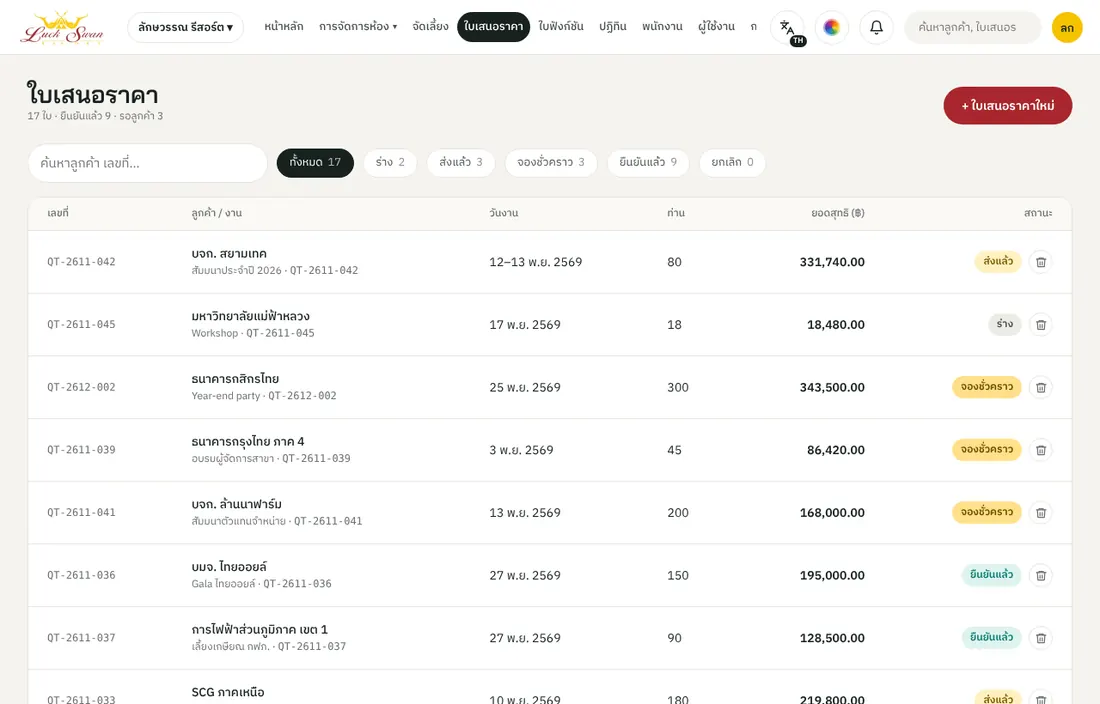
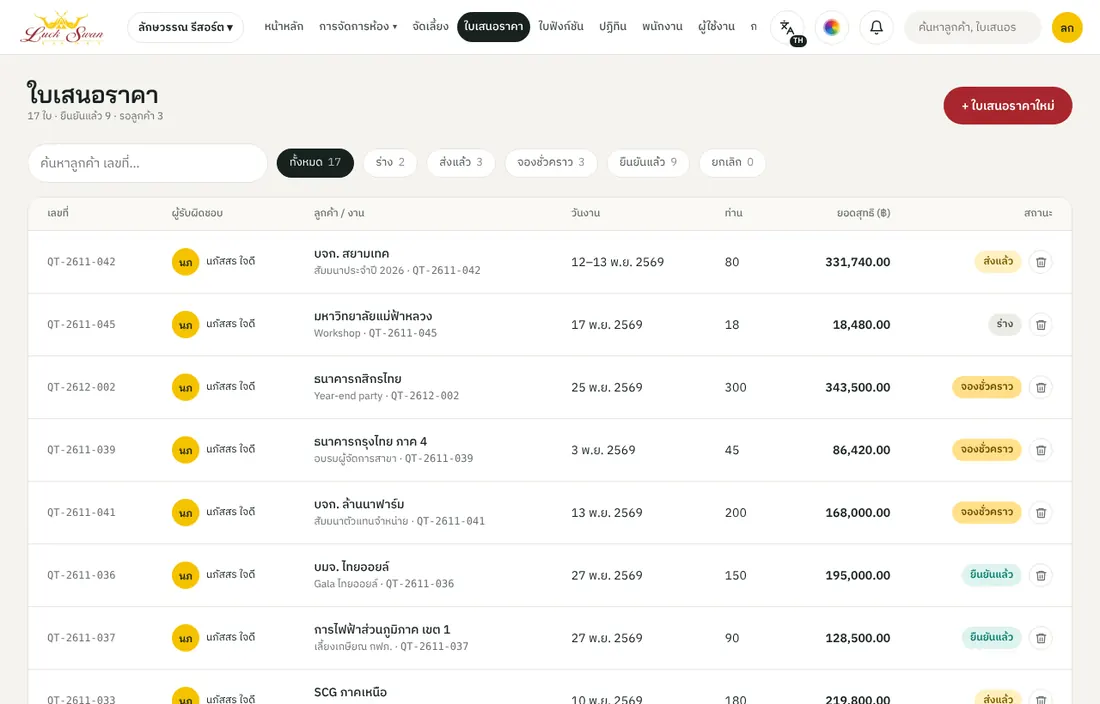
Manual 1.4 (Thai): floor-plan tools, function sheet versions and saving, and more
content.th.js, version 1.4 (5 พ.ย. 2569):
- ออกแบบผังงาน: the rows / tables panel, the room picker for several
  rooms, the text box, the rotate handle and 15/45/90/180° buttons, and a
  picture as background or as the plan.
- รายละเอียดฟังก์ชัน: สำหรับเซลล์ / สำหรับ Operation, บันทึก as PNG / JPG
  / PDF, department cards and the sheet as one list, ประเภทงาน from the
  tags.
- ใบเสนอราคา: the ผู้รับผิดชอบ column.
- รอบพนักงาน / เงื่อนไข: plans only for departments with rules.
- Browse-only roles (พนักงานขายย่อย) on meeting rooms, rooms and catering.
- Backup and admin recovery through GitHub Actions, and what to do when
  the free database quota runs out.
- The quick guides and the change log.

Screenshots (Thai): plan, plan-tools, plan-image, fn, fn-save, quotes and
staff-shifts. tools/shots.js takes the new ones.

English and Burmese are not updated yet.

Claude-Session: https://claude.ai/code/session_015bPeSMdisNsHViU4e5orFu

diff --git a/docs/manual/content.th.js b/docs/manual/content.th.js
@@ -14,7 +14,7 @@ window.MANUAL.th = {
     title: 'คู่มือการใช้งานระบบงานขาย',
     subtitle: 'ลักษวรรณ รีสอร์ท — ใบเสนอราคา ห้องประชุม ห้องพัก จัดเลี้ยง ใบฟังก์ชัน พนักงาน ตารางการทำงาน ใบลา และงานที่มอบหมาย',
     url: 'https://luckswan-sales.it-luckswan.workers.dev',
-    version: '1.3', updated: '29 ต.ค. 2569',
+    version: '1.4', updated: '5 พ.ย. 2569',
     intro: 'ระบบงานขายเป็นเว็บแอปที่ใช้ได้ทั้งคอมพิวเตอร์ iPad และมือถือ ทุกคนเห็นข้อมูลชุดเดียวกันแบบเรียลไทม์ เมนูที่แต่ละคนเห็นขึ้นกับบทบาทและสิทธิ์ที่ผู้ดูแลระบบกำหนดให้ คู่มือนี้อธิบายทุกหมวดตั้งแต่เข้าสู่ระบบจนถึงงานของแต่ละแผนก พร้อมรูปหน้าจอจริงประกอบทุกขั้นตอน'
   },
   groups: [
@@ -95,7 +95,7 @@ window.MANUAL.th = {
         'ปุ่มดินสอ ✏ มุมขวาล่างของการ์ดห้อง (ผู้มีสิทธิ์แก้ราคา): แก้รูปตัวอย่าง (อัปโหลดได้หลายรูป ลบ เลื่อนลำดับ รูปแรกเป็นหน้าปก) ราคาเต็มวัน/ครึ่งวัน จำนวนคนที่รองรับแต่ละรูปแบบ (ต่ำสุด–สูงสุด เช่น 150–300 คน) พื้นที่ งานเลี้ยงการันตีขั้นต่ำ คำอธิบาย และสิ่งที่มีในห้อง แล้วกด “บันทึก” — มีปุ่ม “คืนค่าเริ่มต้น”'
       ],
       shots: [{ img: 'meet', cap: 'รายการห้องประชุม พร้อมความจุและสถานะว่าง' }, { img: 'meet-sel', cap: 'เลือกห้องแล้ว: ผังที่นั่ง เงื่อนไข และอุปกรณ์ในห้อง' }, { img: 'meet-edit', cap: 'แก้ไขห้องประชุม: รูป ราคา และจำนวนคนที่รองรับ' }, { img: 'meet-zoom', cap: 'ขยายรูปห้องเต็มจอ' }],
-      tips: ['ถ้าจองห้องทับเวลากับงานอื่น ระบบจะเตือน และต้องให้ผู้ดูแลระบบอนุมัติก่อน', 'ห้องที่เกินความจุของรูปแบบที่เลือกจะขึ้นเตือน', 'ราคาห้องที่แก้ใหม่ ใช้กับรายการที่เพิ่มเข้าใบเสนอราคาหลังจากนี้ ใบเดิมไม่เปลี่ยน']
+      tips: ['บทบาทที่ไม่มีสิทธิ์ “สร้างและส่งใบเสนอราคา” (เช่น พนักงานขายย่อย) ดูห้อง รูป ความจุ และราคาได้ แต่ไม่เห็นแถบเลือกใบเสนอราคา จองชั่วคราว และปุ่มเพิ่ม/อัปเดตในใบเสนอ', 'ถ้าจองห้องทับเวลากับงานอื่น ระบบจะเตือน และต้องให้ผู้ดูแลระบบอนุมัติก่อน', 'ห้องที่เกินความจุของรูปแบบที่เลือกจะขึ้นเตือน', 'ราคาห้องที่แก้ใหม่ ใช้กับรายการที่เพิ่มเข้าใบเสนอราคาหลังจากนี้ ใบเดิมไม่เปลี่ยน']
     },
     {
       id: 'rooms', group: 'sell', icon: 'bed', title: 'ห้องพักและการตั้งราคาห้อง', who: 'ฝ่ายขาย · ผู้ดูแลระบบ (ตั้งราคา)',
@@ -114,7 +114,7 @@ window.MANUAL.th = {
         'ผู้มีสิทธิ์แก้ราคา: กด “ตั้งราคาห้องพัก” เพื่อแก้ช่วงราคา (ฤดูกาล) จำนวนห้อง และราคาแต่ละประเภท With ABF / Room only — ส่วน “บูติก” แก้ราคาห้อง 3 แบบ และราคาอาหาร 3 ระดับ แล้วกดบันทึก'
       ],
       shots: [{ img: 'rooms', cap: 'จัด Room block รีสอร์ท: เลือกประเภท จำนวน และแบบเตียง' }, { img: 'rooms-bq', cap: 'ห้องพักบูติก และอาหารซื้อเพิ่ม' }, { img: 'roomrates', cap: 'ตั้งราคาห้องพักตามช่วงฤดูกาล' }, { img: 'roomrates-bq', cap: 'ตั้งราคาบูติก: ห้องพักและอาหาร' }],
-      tips: ['ราคาห้องเป็นราคาต่อห้องต่อคืน สำหรับ 2 ท่าน (Triple 3 ท่าน) เป็นราคา Net รวม Service และ VAT แล้ว (คิดแบบเดียวกับใบเสนอราคา)', 'ใบเสนอราคาหนึ่งใบใช้ห้องพักได้ทีละสถานที่ — กดอัปเดตใบเสนอจากบูติก จะแทนห้องรีสอร์ทเดิมในใบ (และกลับกัน)', 'บูติกไม่ใช้ห้องฟรีทุก 20 ห้อง และ Late check-out ของรีสอร์ท']
+      tips: ['บทบาทที่ไม่มีสิทธิ์ “สร้างและส่งใบเสนอราคา” (เช่น พนักงานขายย่อย) ดูห้อง รูป ความจุ และราคาได้ แต่ไม่เห็นแถบเลือกใบเสนอราคา จองชั่วคราว และปุ่มเพิ่ม/อัปเดตในใบเสนอ', 'ราคาห้องเป็นราคาต่อห้องต่อคืน สำหรับ 2 ท่าน (Triple 3 ท่าน) เป็นราคา Net รวม Service และ VAT แล้ว (คิดแบบเดียวกับใบเสนอราคา)', 'ใบเสนอราคาหนึ่งใบใช้ห้องพักได้ทีละสถานที่ — กดอัปเดตใบเสนอจากบูติก จะแทนห้องรีสอร์ทเดิมในใบ (และกลับกัน)', 'บูติกไม่ใช้ห้องฟรีทุก 20 ห้อง และ Late check-out ของรีสอร์ท']
     },
     {
       id: 'food', group: 'sell', icon: 'food', title: 'จัดเลี้ยงและเมนูอาหาร', who: 'ฝ่ายขาย · ผู้ดูแลระบบ (แก้เมนู)',
@@ -128,13 +128,13 @@ window.MANUAL.th = {
         'จัดการประเภทจัดเลี้ยง (ผู้มีสิทธิ์แก้ราคา): ปุ่ม ＋ และ ✏ ข้างหัวข้อ “ประเภท” — ＋ เพิ่มประเภทใหม่ · ✏ แก้ชื่อหรือลบ 🗑 (แต่ละแถวบอกจำนวนเมนู) แล้วกด “บันทึก”'
       ],
       shots: [{ img: 'food', cap: 'รายการเมนูจัดเลี้ยงและตัวกรอง' }, { img: 'food-cats', cap: 'จัดการประเภทจัดเลี้ยง: เพิ่ม แก้ชื่อ ลบ' }, { img: 'food-edit', cap: 'แก้ไขแพ็กเกจ: ราคา ขั้นต่ำ รูป และรายการอาหาร' }],
-      tips: ['ราคาที่แก้ใหม่ใช้กับใบเสนอราคาที่ทำหลังจากนี้ ใบที่ส่งไปแล้วไม่เปลี่ยน', 'ประเภทที่ยังมีเมนูอยู่ลบไม่ได้ (ย้ายเมนูไปประเภทอื่นก่อน) · “ทั้งหมด” ลบไม่ได้ · “แพ็กเกจสัมมนา” แก้ชื่อได้แต่ลบไม่ได้ · ตั้งชื่อซ้ำไม่ได้']
+      tips: ['บทบาทที่ไม่มีสิทธิ์ “สร้างและส่งใบเสนอราคา” (เช่น พนักงานขายย่อย) ดูเมนูและราคาได้ แต่ไม่เห็นแถบเลือกใบเสนอราคา ปุ่ม “+ เพิ่มในใบเสนอ” และแถบใบเสนอด้านล่าง', 'ราคาที่แก้ใหม่ใช้กับใบเสนอราคาที่ทำหลังจากนี้ ใบที่ส่งไปแล้วไม่เปลี่ยน', 'ประเภทที่ยังมีเมนูอยู่ลบไม่ได้ (ย้ายเมนูไปประเภทอื่นก่อน) · “ทั้งหมด” ลบไม่ได้ · “แพ็กเกจสัมมนา” แก้ชื่อได้แต่ลบไม่ได้ · ตั้งชื่อซ้ำไม่ได้']
     },
     {
       id: 'quotes', group: 'sell', icon: 'doc', title: 'ใบเสนอราคา: รายการและการแก้ไข', who: 'ฝ่ายขาย · ผู้จัดการฝ่ายขาย · บัญชี (ดู)',
       intro: 'เมนู ใบเสนอราคา รวมทุกใบ ค้นหาและกรองตามสถานะ: ร่าง · ส่งแล้ว · จองชั่วคราว · ยืนยันแล้ว · ยกเลิก',
       steps: [
-        'ค้นหาด้วยชื่อลูกค้าหรือเลขที่ใบ แล้วกดแถวเพื่อเปิด',
+        'ค้นหาด้วยชื่อลูกค้าหรือเลขที่ใบ แล้วกดแถวเพื่อเปิด — คอลัมน์ “ผู้รับผิดชอบ” ต่อจากเลขที่ บอกชื่อผู้ใช้ที่สร้างใบนั้น (บนมือถือแสดงใต้ชื่องาน)',
         'ในหน้าใบเสนอราคา รายการแบ่งเป็น ห้องประชุม · อาหารและเครื่องดื่ม · ห้องพัก — แก้จำนวนหรือราคาในช่องได้ทันที กด “+ เพิ่มรายการ…” เพื่อเพิ่ม',
         'สลับมุมมอง “ตาราง / ไทม์ไลน์” มุมขวาบน เพื่อดูกำหนดการรายวัน',
         'กล่องสรุปยอดด้านขวา: ราคาในใบเป็นราคา Net (รวม Service Charge และ VAT แล้ว) — ยอดรวมก่อนส่วนลด · ส่วนลด · ราคาก่อน Service Charge และ VAT · ค่าบริการ 10% · รวมก่อน VAT · VAT 7% · ยอดสุทธิ และเฉลี่ยต่อท่าน',
@@ -189,25 +189,31 @@ window.MANUAL.th = {
         'ส่วนหัวแสดง วันงาน จำนวนยืนยัน (+5% สำรอง) ห้อง ผู้ติดต่อ และฝ่ายขาย',
         'กรอบ “ประเภทผู้เข้าร่วมงาน และ ลักษณะงาน”: กดที่หัวกิ่งเพื่อกาง แล้วกดเลือกได้หลายข้อ เช่น เด็กนักเรียนมัธยม · อาจารย์ / Team building · คลาสสอน — หัวกิ่งแสดงสิ่งที่เลือก · ✏ แก้ไข / เพิ่ม / ลบตัวเลือกภายในกิ่ง (ผู้ดูแลระบบ ผู้จัดการฝ่ายขาย พนักงานขาย) บทบาทอื่นเห็นอย่างเดียว',
         'กำหนดการรายวัน: เวลา รายละเอียด สถานที่ และแผนกที่รับผิดชอบ (สลับ “วันที่ 1 / วันที่ 2”) — นำเข้าจากไฟล์ Excel ได้',
-        'การ์ดแต่ละแผนก (ครัว จัดเลี้ยง ช่าง ส่วนหน้า แม่บ้าน บัญชี) แสดงรายการงานและสถานะ “รับทราบแล้ว / รอรับทราบ” กด “แก้ไข” เพื่อเพิ่มงานของแผนก',
+        'การ์ดแต่ละแผนก (ครัว จัดเลี้ยง ช่าง ส่วนหน้า แม่บ้าน บัญชี) แสดงรายการงานและสถานะ “รับทราบแล้ว / รอรับทราบ” กด “แก้ไข” เพื่อเพิ่มงานของแผนก — รายการในการ์ดกับช่องของแผนกนั้นใน “รายละเอียดฟังก์ชัน” เป็นข้อมูลชุดเดียวกัน แก้ที่ไหนก็ขึ้นทั้งสองที่',
         'ทุกครั้งที่แก้หลังส่งแล้ว ระบบนับ “แก้ไขครั้งที่ …” และส่งให้ผู้ดูแลระบบอนุมัติก่อนส่งแผนก',
         'ปุ่มด้านบน: รายละเอียดฟังก์ชัน · ใบสรุปสำหรับฝ่ายขาย · ออกแบบผังงาน (ผู้ดูแลระบบ ฝ่ายขาย แผนก F&B และแผนกจัดเลี้ยง) · แก้ไขปรับปรุง (ผู้ดูแลระบบ) · พิมพ์ / PDF'
       ],
       shots: [{ img: 'beo', cap: 'ใบฟังก์ชัน: กำหนดการรายวันและการ์ดแต่ละแผนก' }, { img: 'beo-tags', cap: 'ประเภทผู้เข้าร่วมงาน และ ลักษณะงาน' }, { img: 'beo-list', cap: 'รายการใบฟังก์ชันพร้อมสถานะการรับทราบ' }],
-      tips: ['ใบเสนอราคาที่ยังไม่อนุมัติ ออกใบฟังก์ชันไม่ได้ ระบบจะแจ้ง “ต้องให้ผู้ดูแลระบบอนุมัติใบเสนอราคาก่อน” · ใบฟังก์ชันที่มีอยู่แล้วแก้ไขได้ตามปกติ', 'หัวหน้าแผนกควรกด “รับทราบ” ทุกครั้งที่มีใบใหม่หรือมีการแก้ไข', 'การเลือกประเภทผู้เข้าร่วมงานและลักษณะงานไม่ทำให้ใบต้องขออนุมัติการแก้ไขใหม่ · รายการตัวเลือกใช้ร่วมกันทุกใบ']
+      tips: ['ใบเสนอราคาที่ยังไม่อนุมัติ ออกใบฟังก์ชันไม่ได้ ระบบจะแจ้ง “ต้องให้ผู้ดูแลระบบอนุมัติใบเสนอราคาก่อน” · ใบฟังก์ชันที่มีอยู่แล้วแก้ไขได้ตามปกติ', 'หัวหน้าแผนกควรกด “รับทราบ” ทุกครั้งที่มีใบใหม่หรือมีการแก้ไข', 'การเลือกประเภทผู้เข้าร่วมงานและลักษณะงานไม่ทำให้ใบต้องขออนุมัติการแก้ไขใหม่ · รายการตัวเลือกใช้ร่วมกันทุกใบ · สิ่งที่เลือกไปแสดงในช่อง “ประเภทงาน” ของรายละเอียดฟังก์ชัน']
     },
     {
       id: 'plan', group: 'event', icon: 'grid', title: 'ออกแบบผังงานและแก้ไขปรับปรุงห้อง', who: 'ผู้ดูแลระบบ · ผู้จัดการฝ่ายขาย · พนักงานขาย · แผนก F&B · แผนกจัดเลี้ยง (หัวหน้าและพนักงาน)',
-      intro: 'วาดผังการจัดห้องจากใบฟังก์ชัน พิมพ์แนบให้ทีมจัดห้อง',
+      intro: 'วาดผังการจัดห้องจากใบฟังก์ชัน พิมพ์แนบให้ทีมจัดห้อง ใช้ได้ทั้งคอมพิวเตอร์ iPad และมือถือ',
       steps: [
-        'จากใบฟังก์ชัน กด “ออกแบบผังงาน” เลือกวัน (วันที่ 1 / วันที่ 2)',
-        'เลือกเทมเพลตด้านซ้าย (ตามใบเสนอราคา · Theatre · ห้องประชุม · โต๊ะกลม ฯลฯ) ระบบจัดโต๊ะเก้าอี้ให้อัตโนมัติ',
-        'กด “+ โต๊ะกลม / + โต๊ะยาว / + แถวเก้าอี้ / + เวที …” เพื่อเพิ่มของ แล้วลากวางบนผัง',
-        'แตะของเพื่อเลือก ย้าย หมุน หรือลบ กด “ย้อนกลับ” เมื่อทำผิด',
-        '“แก้ไขปรับปรุง”: ตั้งขนาดห้อง (เมตร) และของที่ห้ามย้าย เช่น เวที ประตู เสา ปลั๊ก — ใช้กับทุกงานของห้องนั้น'
+        'จากใบฟังก์ชัน กด “ออกแบบผังงาน” เลือกวัน (วันที่ 1 / วันที่ 2) — ถ้างานใช้ห้องประชุมมากกว่า 1 ห้อง จะมีหน้าให้เลือกห้องก่อน แต่ละห้องมีผังของตัวเอง',
+        'แผง “จำนวนโต๊ะ / แถว” ด้านซ้าย: ระบบดึงจำนวนผู้เข้าร่วมจากใบเสนอราคา แล้วคำนวณจำนวนแถวและโต๊ะต่อแถวให้ (Classroom · Theatre = เก้าอี้ต่อแถว · Banquet) พร้อมที่นั่งต่อโต๊ะและทางเดินกลาง',
+        'แก้เลข “จำนวนแถว” “โต๊ะต่อแถว” หรือ “ผู้เข้าร่วม” ได้เอง ด้านล่างสรุปทันที เช่น “3 แถว × 6 โต๊ะ = 18 โต๊ะ · 180 ที่” และเตือนสีแดงถ้าที่นั่งไม่พอหรือแถวมากเกินห้อง — กด “จัดผังตามนี้” เพื่อจัดโต๊ะใหม่ทั้งผัง หรือ “คำนวณใหม่” ให้ระบบคิดเลขอีกครั้ง',
+        'หรือเลือกเทมเพลตด้านซ้าย (ตามใบเสนอราคา · Theatre · ห้องประชุม · โต๊ะกลม ฯลฯ) ระบบจัดโต๊ะเก้าอี้ให้อัตโนมัติ',
+        'กด “+ โต๊ะกลม / + โต๊ะยาว / + แถวเก้าอี้ / + เวที / + กล่องข้อความ …” เพื่อเพิ่มของ แล้วลากวางบนผัง — กล่องข้อความ: กดเพิ่มแล้วพิมพ์ข้อความในช่อง “ข้อความ” ด้านซ้ายได้ทันที เช่น “ทางเข้า VIP”',
+        'แตะของเพื่อเลือก ย้าย คัดลอก หรือลบ กด “ย้อนกลับ” เมื่อทำผิด',
+        'หมุน: ลากวงกลมสีแดงเหนือกรอบของที่เลือก (ทีละ 5°) หรือกดปุ่ม ⟳ 15° · 45° · 90° · 180° ในแผง “ที่เลือกอยู่” (หมุนตามเข็มนาฬิกา แสดงมุมปัจจุบัน)',
+        'รูปผัง (.jpg .png): กด + ที่หัวข้อ “เทมเพลต” › อัปโหลดรูป — รูปขึ้นเป็นพื้นหลังเข้มเต็ม ปรับความเข้มให้จางเพื่อวางโต๊ะทับได้',
+        'ใช้รูปเป็นผังงาน: ในแผง “รูปพื้นหลัง” กด “ใช้รูปนี้เป็นผังงาน” — ใบฟังก์ชันและการพิมพ์ใช้รูปนี้แทน พิมพ์จำนวนที่นั่งเอง · “กลับไปใช้ผังที่วาด” นำโต๊ะเดิมกลับมาครบ · “ลบรูป” เอารูปออก',
+        '“ดาวน์โหลด PNG” บันทึกผังเป็นรูปภาพ',
+        '“แก้ไขปรับปรุง” (ผู้ดูแลระบบ): ตั้งขนาดห้อง (เมตร) และของที่ห้ามย้าย เช่น เวที ประตู เสา กล่องข้อความ — ใช้กับทุกงานของห้องนั้น'
       ],
-      shots: [{ img: 'plan', cap: 'ออกแบบผังงาน: เทมเพลต เพิ่มของ และผังห้อง' }, { img: 'plansetup', cap: 'แก้ไขปรับปรุง: ขนาดห้องและของที่ห้ามย้าย' }],
-      tips: ['ผังพิมพ์เป็น PDF แนบกับใบฟังก์ชันได้', 'ฝ่ายขายดูจากบทบาท ส่วน F&B และจัดเลี้ยงดูจากช่อง “แผนก” ในบัญชีผู้ใช้: ครัว / F&B / อาหารและเครื่องดื่ม / จัดเลี้ยง / Banquet — คนอื่นเห็นภาพผังย่อในใบฟังก์ชันได้ แต่เปิดหน้าออกแบบไม่ได้', '“แก้ไขปรับปรุง” ใช้ได้เฉพาะผู้ดูแลระบบ']
+      shots: [{ img: 'plan', cap: 'ออกแบบผังงาน: แผงจำนวนโต๊ะ / แถว เทมเพลต และผังห้อง' }, { img: 'plan-tools', cap: 'ของที่เลือก: ที่จับหมุน ปุ่มหมุน 15° · 45° · 90° · 180° และกล่องข้อความ' }, { img: 'plan-image', cap: 'ใช้รูปผังที่อัปโหลดเป็นผังงาน และพิมพ์จำนวนที่นั่งเอง' }, { img: 'plansetup', cap: 'แก้ไขปรับปรุง: ขนาดห้องและของที่ห้ามย้าย' }],
+      tips: ['“จัดผังตามนี้” จัดโต๊ะใหม่ทั้งผัง (ของที่ห้ามย้ายอยู่ที่เดิม) ถ้าห้องรับไม่ไหวระบบบอกจำนวนโต๊ะที่วางไม่ลง · กดย้อนกลับได้', 'ระบบจำตัวเลขแถว/โต๊ะที่ใช้ล่าสุดไว้กับผังนั้น', 'กล่องข้อความไม่กินพื้นที่วางโต๊ะเวลาจัดผังอัตโนมัติ', 'ผังพิมพ์เป็น PDF แนบกับใบฟังก์ชันได้', 'ฝ่ายขายดูจากบทบาท ส่วน F&B และจัดเลี้ยงดูจากช่อง “แผนก” ในบัญชีผู้ใช้: ครัว / F&B / อาหารและเครื่องดื่ม / จัดเลี้ยง / Banquet — คนอื่นเห็นภาพผังย่อในใบฟังก์ชันได้ แต่เปิดหน้าออกแบบไม่ได้', '“แก้ไขปรับปรุง” ใช้ได้เฉพาะผู้ดูแลระบบ']
     },
     {
       id: 'fnforms', group: 'event', icon: 'print', title: 'รายละเอียดฟังก์ชันและใบสรุปสำหรับฝ่ายขาย', who: 'ผู้ดูแลระบบ · ผู้จัดการฝ่ายขาย · พนักงานขาย (แก้ไข) · บัญชี · หัวหน้าแผนก (ดู)',
@@ -215,11 +221,14 @@ window.MANUAL.th = {
       steps: [
         'กด “รายละเอียดฟังก์ชัน” — สลับ “ตัวอย่างพิมพ์ / แก้ไขข้อมูล” ใส่ Function No. (ระบบออกเลขอัตโนมัติหรือกรอกเอง) — แท็บแก้ไขข้อมูล ปุ่ม “+ เพิ่มรายละเอียด” และการออกเลข ใช้ได้เฉพาะผู้ดูแลระบบ ผู้จัดการฝ่ายขาย และพนักงานขาย',
         'ส่วน “แผนกบัญชี / การเงิน” (ยอดรวม รายละเอียดค่าใช้จ่าย ที่อยู่ออกบิล) เห็นเฉพาะผู้ดูแลระบบ ผู้จัดการฝ่ายขาย พนักงานขาย และบัญชี — บทบาทอื่นเห็นเฉพาะแผนกต้อนรับเต็มความกว้าง',
+        'ปุ่ม “สำหรับเซลล์ / สำหรับ Operation” (ผู้ดูแลระบบ ผู้จัดการฝ่ายขาย พนักงานขาย บัญชี): สำหรับเซลล์ = ใบเต็มมีส่วนการเงิน · สำหรับ Operation = ฉบับที่ทีมหน้างานเห็น ไม่มีส่วนการเงิน — การพิมพ์และการบันทึกไฟล์ใช้ฉบับที่เลือกอยู่',
+        'ช่อง “รูปแบบการจัดห้อง” · ครัว · แม่บ้าน · ช่างเครื่องเสียง · ฟรอนต์ ดึงจากการ์ดแผนกในใบฟังก์ชัน — พิมพ์แก้ในแท็บแก้ไขข้อมูลแล้วการ์ดเปลี่ยนตาม และแก้ที่การ์ดแล้วใบเปลี่ยนตาม · ช่อง “ประเภทงาน” มาจากประเภทผู้เข้าร่วมงานและลักษณะงานที่เลือก',
         'กด “ใบสรุปสำหรับฝ่ายขาย” — สรุปรายรับจากฟังก์ชัน ค่าอาหาร อาหารว่าง ห้องพัก และรายละเอียดใบกำกับภาษี',
-        'ตรวจแล้วกด “พิมพ์ / PDF”'
+        'ตรวจแล้วกด “พิมพ์ / PDF”',
+        'กด “บันทึก” (ต่อจากพิมพ์ / PDF) เลือก รูปภาพ PNG (คมชัด) · รูปภาพ JPG (ไฟล์เล็ก ส่งทาง LINE) · PDF (กระดาษ A4) — ไฟล์บันทึกลงเครื่อง ชื่อไฟล์บอกเลขใบและฉบับ เช่น function-FS-2610-003-operation.pdf'
       ],
-      shots: [{ img: 'fn', cap: 'รายละเอียดฟังก์ชัน (แบบฟอร์มพิมพ์)' }, { img: 'ss', cap: 'ใบสรุปรายละเอียดงานฟังก์ชันสำหรับฝ่ายขาย' }],
-      tips: ['แบบฟอร์มพิมพ์เป็นภาษาไทยเสมอ']
+      shots: [{ img: 'fn', cap: 'รายละเอียดฟังก์ชัน: ปุ่มสำหรับเซลล์ / สำหรับ Operation และบันทึก' }, { img: 'fn-save', cap: 'บันทึกเป็นไฟล์ PNG · JPG · PDF' }, { img: 'ss', cap: 'ใบสรุปรายละเอียดงานฟังก์ชันสำหรับฝ่ายขาย' }],
+      tips: ['แบบฟอร์มพิมพ์เป็นภาษาไทยเสมอ', 'ถ้ามีการแก้ไขที่ยังไม่บันทึก ต้องกด “บันทึกแก้ไขข้อมูล” ก่อนพิมพ์หรือบันทึกไฟล์', 'บน iPad / iPhone กดบันทึกแล้วเลือก “บันทึกไปยังไฟล์” หรือแชร์ต่อได้']
     },
     {
       id: 'cal', group: 'event', icon: 'cal', title: 'ปฏิทินการจอง', who: 'ฝ่ายขาย · ผู้จัดการ · หัวหน้าแผนก · บัญชี',
@@ -238,7 +247,8 @@ window.MANUAL.th = {
       intro: 'เมนู พนักงาน › รอบพนักงาน จัดคนเข้ารอบของแต่ละงาน ระบบคำนวณจำนวนคนที่ต้องใช้จากจำนวนลูกค้า',
       steps: [
         'เลือกงานด้านบน (กดชื่อใบเสนอราคา ▾) และเลือกวัน',
-        'ถ้ายังไม่มีแผน กด “สร้างแผนจากใบเสนอราคา” — หรือ “ใช้เงื่อนไขกับแผนนี้” เพื่อคำนวณจำนวนใหม่',
+        'ถ้ายังไม่มีแผน กด “สร้างแผนจากใบเสนอราคา” — ระบบสร้างรอบเฉพาะแผนกที่เปิด “ใช้เงื่อนไข” ในเงื่อนไขจำนวนพนักงาน จำนวนคนต่อรอบตามจำนวนลูกค้า (ก่อนกดจะเห็นสรุป เช่น ครัว/F&B 1 คน/รอบ) — “ใช้เงื่อนไขกับแผนนี้” คำนวณจำนวนของแผนที่มีอยู่ใหม่',
+        'แผนกที่ไม่ได้ตั้งเงื่อนไข เพิ่มรอบเองได้ที่ปุ่ม “+ เพิ่มรอบ”',
         'ดูกล่องสรุป: พนักงานที่ต้องใช้ · จัดรอบแล้ว · ขาดคน · ต่อรอบ',
         'ไทม์ไลน์แต่ละแผนก: กดรอบ (รอบเช้า/รอบบ่าย) เพื่อกำหนดจำนวนที่ต้องใช้ เวลา และติ๊กเลือกพนักงาน แล้วกด “บันทึก”',
         'ต่อรอบ (QT): เลือก +1/+2/+3 ชม. หรือกำหนดเอง ใส่เหตุผล เลือกพนักงาน แล้วส่งขออนุมัติ',
@@ -265,7 +275,7 @@ window.MANUAL.th = {
       id: 'rules', group: 'people', icon: 'sliders', title: 'เงื่อนไขจำนวนพนักงาน', who: 'ผู้มีสิทธิ์จัดรอบพนักงาน',
       intro: 'เมนู พนักงาน › เงื่อนไขจำนวนพนักงาน กำหนดว่าจำนวนลูกค้าเท่าไรใช้พนักงานกี่คนต่อรอบ',
       steps: [
-        'เปิดสวิตช์ “ใช้เงื่อนไข” ของแผนกที่ต้องการ (ปิด = ใช้การคำนวณอัตโนมัติของระบบ)',
+        'เปิดสวิตช์ “ใช้เงื่อนไข” ของแผนกที่ต้องการ (ปิด = ไม่สร้างรอบให้แผนกนั้นตอนสร้างแผน เพิ่มรอบเองภายหลังได้)',
         'กำหนดช่วงจำนวนลูกค้า เช่น 1–50 คน = 1 คน, 51–100 คน = 2 คน',
         'กด “+ เพิ่มช่วงจำนวนลูกค้า” หรือ 🗑 ลบช่วง แล้วกดบันทึก',
         'ใช้ตอน “สร้างแผนจากใบเสนอราคา” หรือ “ใช้เงื่อนไขกับแผนนี้”'
@@ -335,7 +345,7 @@ window.MANUAL.th = {
         'บทบาท: กด “+ เพิ่มบทบาท” ตั้งชื่อ เลือกเมนูที่มองเห็นและสิทธิ์ แล้วบันทึก — เมื่อบันทึกบทบาท สิทธิ์จะอัปเดตให้ทุกคนในบทบาทนั้น (เพิ่ม/แก้ชื่อ/ลบบทบาทจากผังองค์กรใน Assignment ⚙ ได้ด้วย)'
       ],
       shots: [{ img: 'users', cap: 'รายชื่อผู้ใช้และแผงสิทธิ์' }, { img: 'user-edit', cap: 'แก้ไขข้อมูลผู้ใช้' }, { img: 'role', cap: 'สิทธิ์การใช้งานรายข้อ' }],
-      tips: ['บัญชีที่ยังไม่ได้กำหนดสถานที่ เข้าได้ทุกสถานที่ · ผู้ใช้ไม่เห็นและแก้ข้อมูลของสถานที่ที่ไม่มีสิทธิ์', 'เปลี่ยนบทบาทแล้ว สิทธิ์จะเปลี่ยนตามบทบาทใหม่ (ปรับรายข้อได้ภายหลัง)', 'ใบเสนอราคาที่ส่งไปแล้วไม่เปลี่ยนตามการเปลี่ยนสิทธิ์']
+      tips: ['บทบาทดูอย่างเดียว เช่น พนักงานขายย่อย: เอาติ๊ก “สร้างและส่งใบเสนอราคา” ออกจากบทบาท — หน้าห้องประชุม ห้องพัก จัดเลี้ยง จะดูได้อย่างเดียว ไม่มีปุ่มเพิ่มลงใบเสนอราคา', 'บัญชีที่ยังไม่ได้กำหนดสถานที่ เข้าได้ทุกสถานที่ · ผู้ใช้ไม่เห็นและแก้ข้อมูลของสถานที่ที่ไม่มีสิทธิ์', 'เปลี่ยนบทบาทแล้ว สิทธิ์จะเปลี่ยนตามบทบาทใหม่ (ปรับรายข้อได้ภายหลัง)', 'ใบเสนอราคาที่ส่งไปแล้วไม่เปลี่ยนตามการเปลี่ยนสิทธิ์']
     },
     {
       id: 'dash', group: 'admin', icon: 'chart', title: 'Dashboard รายงานยอดขาย', who: 'ผู้ดูแลระบบ · ผู้บริหาร',
@@ -355,10 +365,12 @@ window.MANUAL.th = {
       steps: [
         'สำรองข้อมูล: กดรูปโปรไฟล์ › “สำรองข้อมูล (ดาวน์โหลด)” เก็บไฟล์ไว้ในที่ปลอดภัย',
         'กู้ข้อมูล: “นำเข้าข้อมูลสำรอง” แล้วเลือกไฟล์ที่ดาวน์โหลดไว้ (ใช้เมื่อจำเป็นเท่านั้น)',
+        'สำรองข้อมูลทั้งหมด (ฐานข้อมูล รูป บัญชีผู้ใช้ และโค้ด): GitHub › Actions › “Backup data” › Run workflow แล้วดาวน์โหลดไฟล์ .7z ที่ Artifacts (ล็อกด้วยรหัส BACKUP_PASSWORD ที่ตั้งไว้ใน GitHub) — วิธีนำกลับมาใช้อยู่ใน RESTORE.md ในไฟล์',
+        'ไม่มีผู้ดูแลระบบคนไหนเข้าได้: GitHub › Actions › “Reset admin account” (ใส่อีเมลและรหัสใหม่ไว้ใน secrets ADMIN_RESET_EMAIL / ADMIN_RESET_PASSWORD ก่อน) แล้วเปลี่ยนรหัสในแอปอีกครั้ง',
         'การปรับปรุงระบบ: เมื่อมีฟังก์ชันใหม่ แอปในทุกเครื่องจะอัปเดตเองภายในไม่กี่นาที'
       ],
       shots: [],
-      tips: ['ห้ามส่งรหัสผ่านหรือ API token ทางแชทหรืออีเมล']
+      tips: ['ห้ามส่งรหัสผ่านหรือ API token ทางแชทหรืออีเมล', 'ถ้าทุกคนเข้าระบบไม่ได้พร้อมกันและขึ้น “ไม่พบผู้ใช้นี้ในระบบ” อาจเป็นเพราะโควตาฐานข้อมูลฟรีของ Cloudflare ใช้หมดในวันนั้น — รอถึง 07:00 น. แล้วรีเฟรช ระหว่างนั้นอย่าบันทึกงาน']
     }
   ],
   quick: [
@@ -370,7 +382,8 @@ window.MANUAL.th = {
         'เปิดใบเสนอราคา › ปรับรายการ ส่วนลด เงื่อนไข › กด ส่ง / พิมพ์ › เลือก ใบสำหรับลูกค้า / ฉบับเต็ม › แก้ข้อมูลบนใบได้ › ส่งอีเมลหรือพิมพ์ PDF',
         'รอผู้ดูแลระบบ “อนุมัติใบเสนอราคา” (สถานะเป็นจองชั่วคราว) › ลูกค้ายืนยัน › กด “ลูกค้ายืนยันการจอง” › ใบฟังก์ชัน › “+ สร้างจากใบเสนอ” › เลือกประเภทผู้เข้าร่วมงานและลักษณะงาน',
         'กรอกกำหนดการรายวันและงานของแต่ละแผนก › ติดตามการรับทราบ',
-        'ดูปฏิทินก่อนรับงานใหม่ เพื่อเช็คห้องว่าง · ออกแบบผังงานได้จากใบฟังก์ชัน'
+        'ดูปฏิทินก่อนรับงานใหม่ เพื่อเช็คห้องว่าง · ออกแบบผังงานได้จากใบฟังก์ชัน (แผงจำนวนโต๊ะ / แถว คำนวณจากจำนวนผู้เข้าร่วม)',
+        'รายละเอียดฟังก์ชัน › “สำหรับ Operation” › “บันทึก” เป็น JPG/PDF ส่งให้ทีมหน้างานทาง LINE'
       ],
       shots: ['wiz1', 'quote-edit', 'beo'], links: ['newquote', 'quotes', 'sendquote', 'beo', 'cal']
     },
@@ -391,7 +404,8 @@ window.MANUAL.th = {
       can: ['ดูใบฟังก์ชันและปฏิทินการจอง', 'จัดรอบพนักงาน / อนุมัติต่อรอบ'],
       steps: [
         'เช็คกระดิ่งทุกเช้า: ใบฟังก์ชันใหม่หรือแก้ไข › เปิดใบ › กด “รับทราบ” ในการ์ดแผนกของตัวเอง',
-        'ดูกำหนดการรายวัน ประเภทผู้เข้าร่วมงาน ลักษณะงาน และผังงาน เพื่อเตรียมของและคน (F&B และจัดเลี้ยง: ออกแบบผังงานได้)',
+        'ดูกำหนดการรายวัน ประเภทผู้เข้าร่วมงาน ลักษณะงาน และผังงาน เพื่อเตรียมของและคน (F&B และจัดเลี้ยง: ออกแบบผังงานได้ ใส่จำนวนแถว/โต๊ะ หมุน เพิ่มกล่องข้อความ หรือใช้รูปผังที่ได้มาเป็นผังงาน)',
+        'แก้รายการงานในการ์ดแผนกของตัวเอง — ช่องของแผนกในรายละเอียดฟังก์ชันเปลี่ยนตามทันที',
         'พนักงาน › รอบพนักงาน › เลือกงาน › จัดพนักงานเข้ารอบ › ขอต่อรอบเมื่อจำเป็น',
         'ดูแลรายชื่อพนักงานในแผนก (เพิ่ม/แก้ไข/นำเข้า)',
         'พนักงาน › ตารางการทำงาน › แผนกของตัวเอง › ลงกะทั้งรอบ (26–25) › ลงนามช่อง “หัวหน้า”',
@@ -434,7 +448,8 @@ window.MANUAL.th = {
         'ผู้ใช้งาน: สร้างบัญชี กำหนดบทบาท สิทธิ์ และสถานที่ที่เข้าได้ เปิด/ปิดผู้ใช้',
         'ตารางการทำงาน: ลงนามช่อง “ผู้จัดการ” · ตั้งรหัสกะ',
         'ตั้งราคาห้องพัก แก้ห้องประชุม (✏ รูป ราคา จำนวนคน) และแก้เมนูจัดเลี้ยงเมื่อราคาเปลี่ยน',
-        'Dashboard: ติดตามยอดขาย · สำรองข้อมูลเป็นระยะ'
+        'Dashboard: ติดตามยอดขาย · สำรองข้อมูลเป็นระยะ (GitHub › Actions › Backup data)',
+        'บทบาทพนักงานขายย่อย: ผู้ใช้งาน › บทบาท › เอาติ๊ก “สร้างและส่งใบเสนอราคา” ออก ให้ดูห้องและเมนูได้อย่างเดียว'
       ],
       shots: ['quote-approve', 'tasks-approve', 'leave-view', 'dash'], links: ['quotes', 'tasks', 'leave', 'users', 'roster', 'meet', 'rooms', 'food', 'dash', 'backup']
     },
@@ -451,6 +466,7 @@ window.MANUAL.th = {
     }
   ],
   changelog: [
+    { v: '1.4', date: '5 พ.ย. 2569', text: 'ออกแบบผังงาน: แผงจำนวนโต๊ะ / แถว คำนวณจากผู้เข้าร่วมแล้วปรับเลขเองได้ · เลือกห้องเมื่องานใช้หลายห้อง · กล่องข้อความ · ที่จับหมุนและปุ่มหมุน 15°/45°/90°/180° · อัปโหลดรูปผังเป็นพื้นหลังหรือใช้รูปเป็นผังงาน · รายละเอียดฟังก์ชัน: ปุ่มสำหรับเซลล์ / สำหรับ Operation · ปุ่มบันทึกเป็น PNG / JPG / PDF · การ์ดแผนกกับใบเป็นข้อมูลชุดเดียวกัน · ประเภทงานจากแท็ก · ใบเสนอราคา: คอลัมน์ผู้รับผิดชอบ · รอบพนักงาน: สร้างแผนเฉพาะแผนกที่ตั้งเงื่อนไข · บทบาทดูอย่างเดียว (พนักงานขายย่อย) · สำรองข้อมูลและกู้บัญชีผู้ดูแลผ่าน GitHub' },
     { v: '1.3', date: '29 ต.ค. 2569', text: 'เลือกสถานที่หลังเข้าสู่ระบบ (รีสอร์ท / บูติก / มณีอินทร์) ข้อมูลแยกตามสถานที่ และกำหนดสถานที่ที่เข้าได้รายคน · ใบเสนอราคา: ปุ่ม “อนุมัติใบเสนอราคา” (ผู้ดูแลระบบ) เปลี่ยนเป็นจองชั่วคราวอัตโนมัติ กรอบเหลือง/เขียว ปุ่ม “ลูกค้ายืนยันการจอง” จองชั่วคราวเป็นสีเหลือง และรูปห้องพักบนใบ · ใบฟังก์ชันออกได้หลังอนุมัติใบเสนอราคา · ออกแบบผังงาน: ฝ่ายขายใช้ได้ · จัดเลี้ยง: เพิ่ม/แก้/ลบประเภท · ห้องประชุม: ขยายรูปเต็มจอ · พนักงาน: ตารางการทำงานรายเดือน แยกแผนก ลงนาม หัวหน้า → ทรัพยากรบุคคล → ผู้จัดการ' },
     { v: '1.2', date: '26 ต.ค. 2569', text: 'ห้องพัก: เลือกสถานที่ รีสอร์ท / บูติก (ห้อง Standard · Superior · Deluxe พร้อมอาหารเช้าและอาหารเย็นงานเลี้ยงซื้อเพิ่ม) และตั้งราคาบูติก · ข้อความราคาห้องเป็นราคา Net · ใบฟังก์ชัน: กรอบประเภทผู้เข้าร่วมงานและลักษณะงาน (เลือกแบบกิ่ง แก้ไข/เพิ่ม/ลบตัวเลือก)' },
     { v: '1.1', date: '22 ต.ค. 2569', text: 'ห้องประชุม: ปุ่ม ✏ แก้รูป ราคา จำนวนคน และเลื่อนดูรูปตัวอย่าง · ใบเสนอราคา: ราคาแบบ Net ถอดยอด Service Charge/VAT ย้อนกลับ ช่องเลขผู้เสียภาษี ใบสำหรับลูกค้า/ฉบับเต็ม แก้ไขข้อมูลบนใบ เปลี่ยนรูปห้องประชุม และเงื่อนไขบัตรเครดิต 3% · ใบฟังก์ชัน: สิทธิ์แก้ไขรายละเอียดฟังก์ชัน ส่วนบัญชี/การเงิน และออกแบบผังงาน (F&B · จัดเลี้ยง) · Assignment: เลือกสถานที่เมื่อมอบให้แผนก และ ⚙ ตั้งค่าสิทธิ์การสั่งงาน (ผังองค์กรพร้อมซูมและแก้ไข/เพิ่ม/ลบ หรือแบบฟอร์ม)' },

diff --git a/docs/manual/tools/shots.js b/docs/manual/tools/shots.js
@@ -41,8 +41,22 @@ const W = ms => new Promise(r => setTimeout(r, ms));
     await go('#/beo'); await shot('beo-list');
     await go('#/beo/FS-2611-018'); await shot('beo'); await click('[data-act=btFold][data-k=guests]'); await click('[data-act=btFold][data-k=kinds]'); await click('[data-act=btPick][data-k=guests][data-v=g4]'); await click('[data-act=btPick][data-k=kinds][data-v=k6]'); await p.evaluate(() => document.querySelector('.bt-grid').scrollIntoView({ block: 'center' })); await shot('beo-tags');
     await go('#/plan/FS-2611-018/1'); await click('[data-act=fpAuto]'); await shot('plan');
+    // a text box, selected: rotate handle and the 15 / 45 / 90 / 180 buttons
+    await click('[data-act=fpAdd][data-v=text]'); await p.keyboard.type('ทางเข้า VIP'); await W(700); await click('[data-act=fpRot][data-v="45"]');
+    await p.setViewportSize({ width: 1280, height: 1820 }); await p.evaluate(() => window.scrollTo(0, 0)); await shot('plan-tools'); await p.setViewportSize({ width: 1280, height: 820 });
+    await click('[data-act=fpDel]');
+    // a floor-plan picture used as the plan (drawn here on a canvas; in real use it is an uploaded .jpg)
+    await p.evaluate(() => {
+      const c = document.createElement('canvas'); c.width = 1200; c.height = 900; const x = c.getContext('2d');
+      x.fillStyle = '#fff'; x.fillRect(0, 0, 1200, 900); x.strokeStyle = '#222'; x.lineWidth = 10; x.strokeRect(30, 30, 1140, 840);
+      x.fillStyle = '#7d9cc9'; x.fillRect(360, 60, 480, 130); x.fillStyle = '#fff'; x.font = 'bold 40px sans-serif'; x.fillText('STAGE', 535, 140);
+      x.strokeStyle = '#a33'; x.lineWidth = 6; for (let i = 0; i < 5; i++) for (let j = 0; j < 3; j++) { x.beginPath(); x.arc(220 + i * 190, 360 + j * 170, 55, 0, 7); x.stroke(); }
+      const b = Store.db.beos.find(z => z.id === 'FS-2611-018'), pl = b.plans['1'] || Object.values(b.plans)[0];
+      pl.bg = { src: c.toDataURL('image/jpeg', 0.8), op: 100, only: true, seats: 150 }; App.render();
+    }); await W(500); await p.evaluate(() => window.scrollTo(0, 0)); await shot('plan-image');
+    await p.evaluate(() => { const b = Store.db.beos.find(z => z.id === 'FS-2611-018'), pl = b.plans['1'] || Object.values(b.plans)[0]; delete pl.bg; Store.save(); App.render(); });
     await go('#/plansetup'); await shot('plansetup');
-    await go('#/fn/FS-2611-018'); await shot('fn');
+    await go('#/fn/FS-2611-018'); await shot('fn'); await click('[data-act=fnSave]'); await shot('fn-save'); await close();
     await go('#/ss/FS-2611-018'); await click('[data-act=ssTab][data-v=form]'); await shot('ss');
     await go('#/cal'); await click('[data-act=calNav][data-v="1"]'); await shot('cal-month'); await click('[data-act=calView][data-v=week]'); await shot('cal-week'); await click('[data-act=calView][data-v=pipe]'); await shot('cal-pipe');
     await go('#/staff'); await click('[data-act=stTab][data-v=shifts]'); await shot('staff-shifts'); await click('[data-act=stAssign]'); await shot('staff-assign'); await close();
